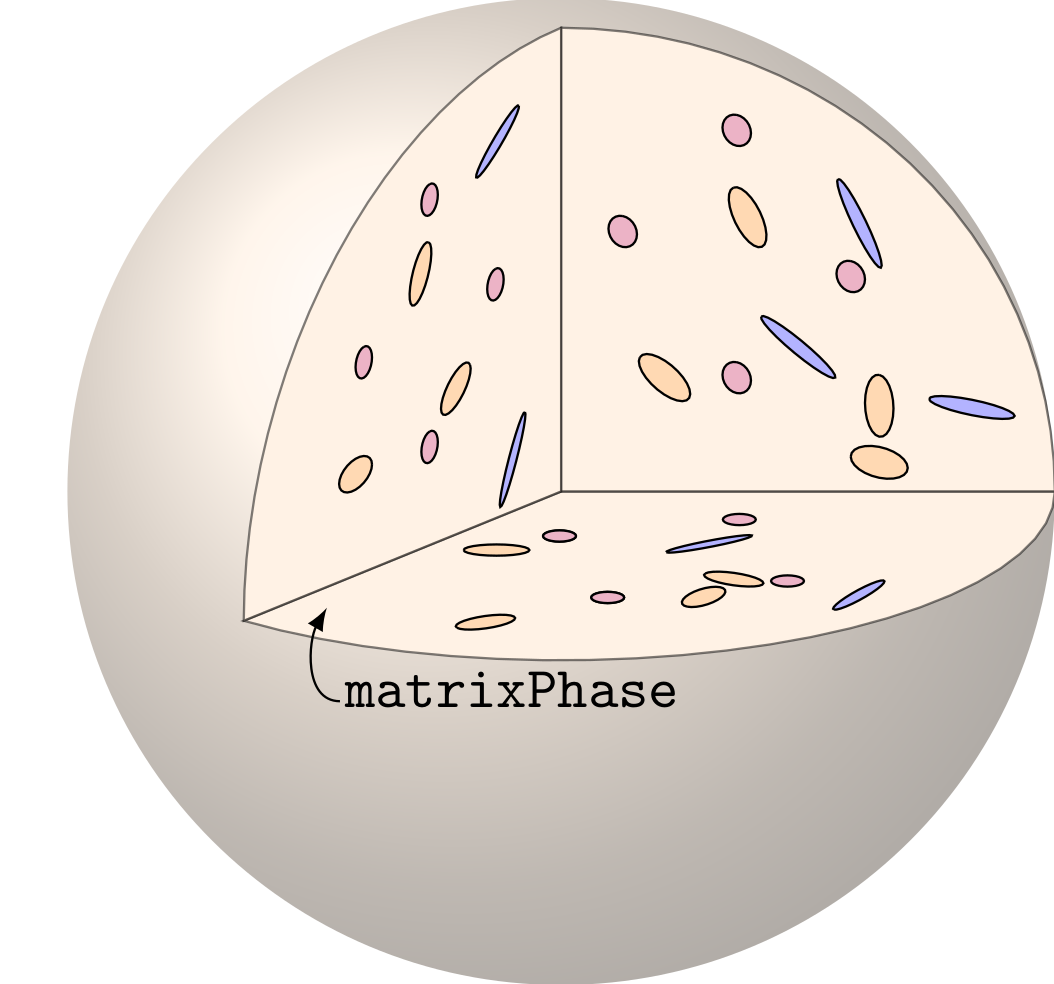
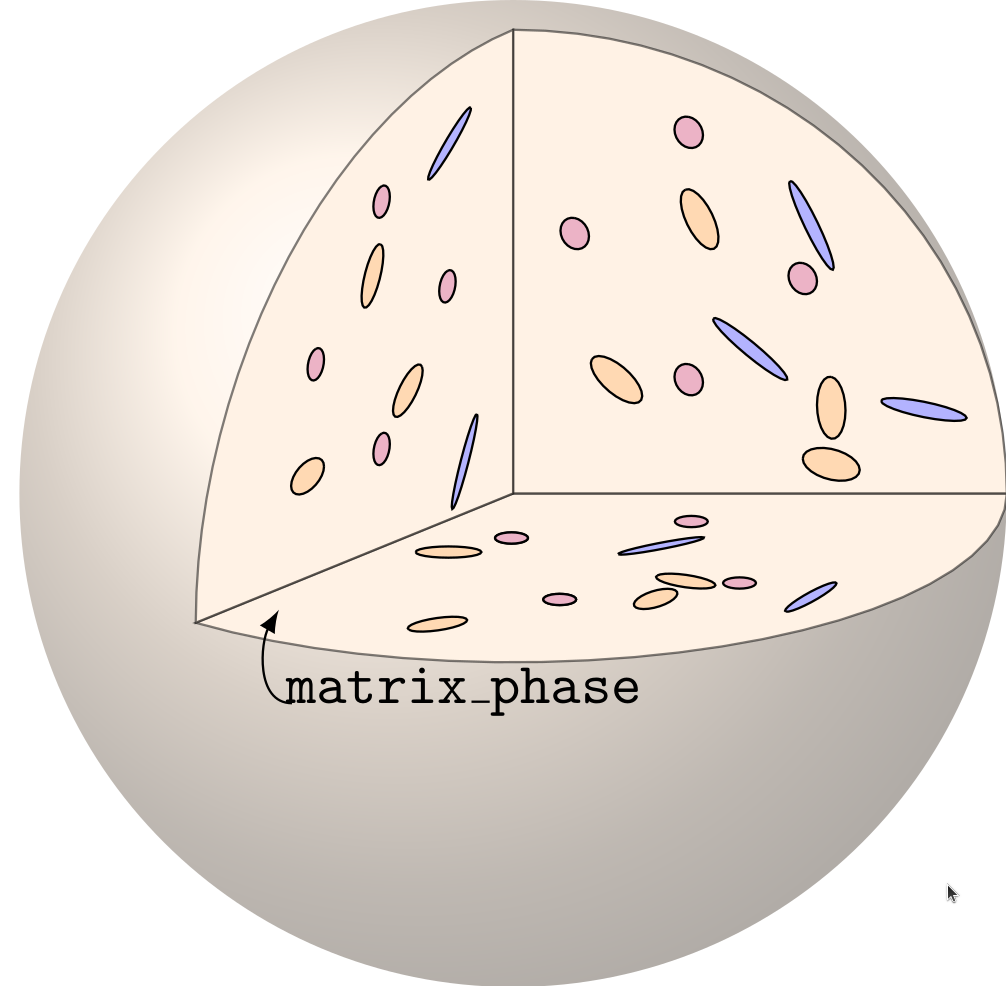
changed method and attribute names

diff --git a/docs/web/tfel-material.md b/docs/web/tfel-material.md
@@ -818,12 +818,12 @@ A `ParticulateMicrostructure` consists on a matrix, in which are embedded
 several distributions of inclusions. The class has three (private) attributes:
 
  - `number_of_phases`
- - `matrixPhase`
- - `inclusionPhases`
+ - `matrix_phase`
+ - `inclusion_phases`
 
-The `matrixPhase` is of type `Phase`, described below.
+The `matrix_phase` is of type `Phase`, described below.
  
-The `inclusionPhases` is a `std::vector` of pointers on
+The `inclusion_phases` is a `std::vector` of pointers on
 `InclusionDistribution` objects (which represent the distributions of inclusions). This
 class is also described below. 
 
@@ -842,18 +842,18 @@ const auto micro_2=ParticulateMicrostructure(C0);
 `ParticulateMicrostructure` has also some methods (see 'MicrostructureDescription.hxx'
 for details). The following ones allow to get some attributes of the class:
 
- - `get_number_of_phases`
- - `get_matrix_fraction` (attribute `fraction` of `matrixPhase`)
- - `get_matrix_elasticity` (attribute `stiffness` of `matrixPhase`)
- - `is_isotropic_matrix` (private attribute `isotropic` of `matrixPhase`)
+ - `getNumberOfPhases`
+ - `getMatrixFraction` (attribute `fraction` of `matrix_phase`)
+ - `getMatrixElasticity` (attribute `stiffness` of `matrix_phase`)
+ - `isIsotropicMatrix` (private attribute `isotropic` of `matrix_phase`)
  
 Last method returns a boolean which states if the matrix is considered isotropic
 or not. In fact, depending on how was instantiated the `ParticulateMicrostructure`,
 the matrix is considered isotropic or not. For example, by doing
 
 ~~~~{.cpp}
-bool val_1=micro_1.is_isotropic_matrix();
-bool val_2=micro_2.is_isotropic_matrix();
+bool val_1=micro_1.isIsotropicMatrix();
+bool val_2=micro_2.isIsotropicMatrix();
 ~~~~
 
 `val_1` will be `True` because `micro_1` was instantiated above with a `KGModuli`,
@@ -862,10 +862,10 @@ that the matrix elasticity is not isotropic, but that it is CONSIDERED
 as not isotropic.
 
 Other methods allows to add/remove `InclusionDistribution` objects
-to the attribute `inclusionPhases`, and also to modifiy the properties of
+to the attribute `inclusion_phases`, and also to modifiy the properties of
 the phases:
 
- - `get_inclusionPhase`
+ - `getInclusionPhase`
  - `addInclusionPhase`
  - `removeInclusionPhase`
  - `changeElasticityOfMatrixPhase`
@@ -885,18 +885,18 @@ The `Phase class` has three attributes:
 
 and three methods: 
 
- - `is_isotropic`
+ - `isIsotropic`
  - `changeElasticityOfPhase`
  - `getElasticityOfPhase`
  
-`is_isotropic()` returns a `bool` stating if the phase is
+`isIsotropic()` returns a `bool` stating if the phase is
 considered isotropic or not. Again, the value of this `bool` depends on the
 way the `Phase` was constructed. By doing
 
 ~~~~{.cpp}
 const auto C0=tfel::math::st2tost2<stress>::Id();
 Phase<stress> ph(f,C0);
-bool b = ph.is_isotropic();
+bool b = ph.isIsotropic();
 ~~~~
 
 `b` will have the value `false`, whereas by doing
@@ -904,13 +904,13 @@ bool b = ph.is_isotropic();
 ~~~~{.cpp}
 const auto KG=tfel::material::KGModuli<stress>(k,g);
 Phase<stress> ph(f,KG);
-bool b = ph.is_isotropic();
+bool b = ph.isIsotropic();
 ~~~~
 
 `b` will have the value `true`. Hence,
 when a `ParticulateMicrostructure` is instantiated,
 it automatically instantiates a `Phase` object corresponding to 
-the attribute `matrixPhase`. However, we note that the user can
+the attribute `matrix_phase`. However, we note that the user can
 construct a microstructure without using `Phase` instantiation
 himself.
 
@@ -985,20 +985,20 @@ We can now construct our `ParticulateMicrostructure` by adding some
 
 ~~~~{.cpp}
 micro_1.addInclusionPhase(distrib_sph);
-std::cout<< micro_1.get_number_of_phases()<< std::endl;
-std::cout<< micro_1.get_matrix_fraction()<< std::endl;
+std::cout<< micro_1.getNumberOfPhases()<< std::endl;
+std::cout<< micro_1.getMatrixFraction()<< std::endl;
 
 micro_1.addInclusionPhase(distrib_ell);
-std::cout<< micro_1.get_number_of_phases()<< std::endl;
-std::cout<< micro_1.get_matrix_fraction()<< std::endl;
+std::cout<< micro_1.getNumberOfPhases()<< std::endl;
+std::cout<< micro_1.getMatrixFraction()<< std::endl;
 ~~~~
 
 or remove them:
 
 ~~~~{.cpp}
 micro_1.removeInclusionPhase(0);
-std::cout<< micro_1.get_number_of_phases()<< std::endl;
-std::cout<< micro_1.get_matrix_fraction()<< std::endl;
+std::cout<< micro_1.getNumberOfPhases()<< std::endl;
+std::cout<< micro_1.getMatrixFraction()<< std::endl;
 ~~~~
 
 At this stage, we have added the distribution of spheres `distrib_sph`,
@@ -1008,7 +1008,7 @@ the distribution of spheres. Hence, only one `InclusionDistribution` object
 remains in the microstructure. We can get this distribution by doing:
 
 ~~~~{.cpp}
-const auto ell_dist=micro_1.get_inclusionPhase(0);
+const auto ell_dist=micro_1.getInclusionPhase(0);
 ~~~~
 
 Each `InclusionDistribution` object has three attributes:
@@ -1021,7 +1021,7 @@ it was instantiated with a `KGModuli`, so that it is considered isotropic.
 Hence,
 
 ~~~~{.cpp}
-std::cout<< ell_dist.is_isotropic()<< std::endl;
+std::cout<< ell_dist.isIsotropic()<< std::endl;
 ~~~~
 
 prints `1`.
@@ -1056,8 +1056,8 @@ elasticity of the matrix phase:
 
 ~~~~{.cpp}
 micro_1.changeElasticityOfMatrixPhase(C0);
-std::cout<< micro_1.get_matrix_elasticity()<< std::endl;
-std::cout<< micro_1.is_isotropic_matrix()<< std::endl;
+std::cout<< micro_1.getMatrixElasticity()<< std::endl;
+std::cout<< micro_1.isIsotropicMatrix()<< std::endl;
 ~~~~
 
 Here we see that the matrix is no more isotropic
@@ -1120,7 +1120,7 @@ std::cout<< "SC aniso: "<< hmSC_aniso.homogenized_stiffness<< std::endl;
 (the "std::cout" does not work when  using quantities).
 For the oter schemes, the isotropic character of the matrix
 when computing the strain localisators will depend
-on what returns `micro_1.is_isotropic_matrix()`. Hence, it is important
+on what returns `micro_1.isIsotropicMatrix()`. Hence, it is important
 to initialized the matrix or the microstructure with the appropriate
 elastic moduli. If isotropic, it will works in all case, whereas
 if not isotropic, it will fail depending on the distributions that are present

diff --git a/docs/web/tfel-python.md b/docs/web/tfel-python.md
@@ -448,10 +448,10 @@ it has some methods that return the value of the
 private attributes:
 
 ~~~~{.py}
-print(micro_1.get_number_of_phases())
-print(micro_1.get_matrix_fraction())
-print(micro_1.get_matrix_elasticity())
-print(micro_1.is_isotropic_matrix())
+print(micro_1.getNumberOfPhases())
+print(micro_1.getMatrixFraction())
+print(micro_1.getMatrixElasticity())
+print(micro_1.isIsotropicMatrix())
 ~~~~
 
 Note that last line returns `True` if `micro_1` was instantiated with
@@ -513,20 +513,20 @@ We can now add these distributions to the microstructure:
 
 ~~~~{.py}
 micro_1.addInclusionPhase(sph_dist)
-print(micro_1.get_number_of_phases())
-print(micro_1.get_matrix_fraction())
+print(micro_1.getNumberOfPhases())
+print(micro_1.getMatrixFraction())
 
 micro_1.addInclusionPhase(ellipsoid_dist_iso)
-print(micro_1.get_number_of_phases())
-print(micro_1.get_matrix_fraction())
+print(micro_1.getNumberOfPhases())
+print(micro_1.getMatrixFraction())
 ~~~~
 
 or remove them:
 
 ~~~~{.py}
 micro_1.removeInclusionPhase(0)
-print(micro_1.get_number_of_phases())
-print(micro_1.get_matrix_fraction())
+print(micro_1.getNumberOfPhases())
+print(micro_1.getMatrixFraction())
 ~~~~
 
 At this stage, we have added the distribution of spheres `sph_dist`,
@@ -536,7 +536,7 @@ the distribution of spheres. Hence, only one `InclusionDistribution` object
 remains in the microstructure. We can get this distribution by doing:
 
 ~~~~{.py}
-ell_dist=micro_1.get_inclusionPhase(0)
+ell_dist=micro_1.getInclusionPhase(0)
 ~~~~
 
 This distribution of ellipsoids was instantiated before with a `Ellipsoid`
@@ -558,7 +558,7 @@ it was instantiated with a `KGModuli`, so that it is considered isotropic.
 Hence,
 
 ~~~~{.py}
-print(ell_dist.is_isotropic())
+print(ell_dist.isIsotropic())
 ~~~~
 
 returns `True`.
@@ -595,8 +595,8 @@ the elasticity of the matrix phase:
 
 ~~~~{.py}
 micro_1.changeElasticityOfMatrixPhase(C0)
-print(micro_1.get_matrix_elasticity())
-print(micro_1.is_isotropic_matrix())
+print(micro_1.getMatrixElasticity())
+print(micro_1.isIsotropicMatrix())
 ~~~~
 
 Here we see that the matrix is no more isotropic
@@ -620,7 +620,7 @@ Hence, we here recover the isotropic matrix by doing
 
 ~~~~{.py}
 micro_1.changeElasticityOfMatrixPhase(IM0)
-print(micro_1.is_isotropic_matrix())
+print(micro_1.isIsotropicMatrix())
 ~~~~
 
 Afterwards,
@@ -661,7 +661,7 @@ print("SC aniso: ",hmSC_aniso.homogenized_stiffness)
 
 For the oter schemes, the isotropic character of the matrix
 when computing the strain localisators will depend
-on what returns `micro_1.is_isotropic_matrix()`. Hence, it is important
+on what returns `micro_1.isIsotropicMatrix()`. Hence, it is important
 to initialized the matrix or the microstructure with the appropriate
 elastic moduli. If isotropic, it will works in all case, whereas
 if not isotropic, it will fail depending on the distributions that are present